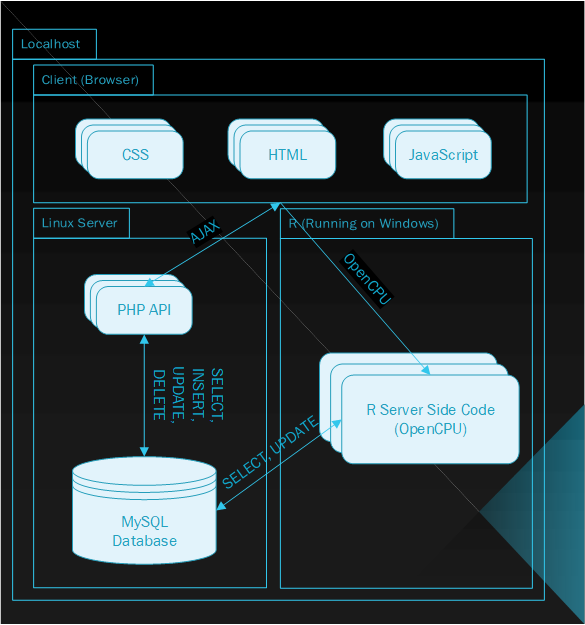
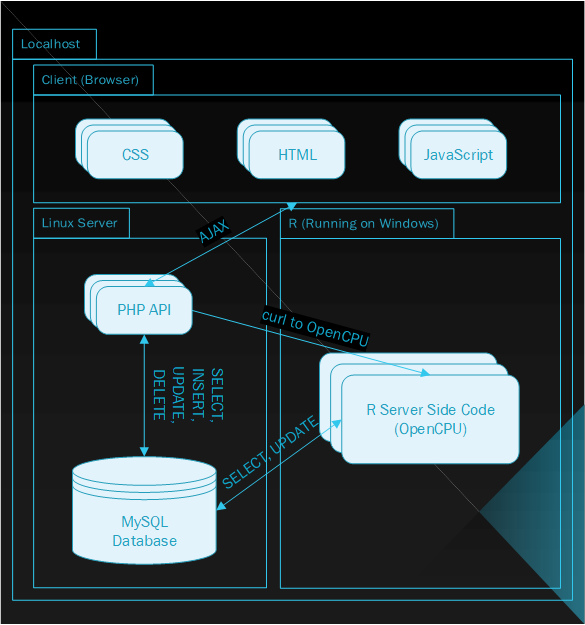
Corrected bugs with inventory update and consumption graphs. Added new version of docs images.

diff --git a/www/js/hub.js b/www/js/hub.js
@@ -42,7 +42,7 @@ hub.drawGraph = function(data, minDate, maxDate, line){
 		},
 		series: {
 			lines: {
-				show: true
+				show: line
 			},
 			points: {
 				show: true
@@ -207,12 +207,12 @@ $(document).ready(function(){
 		$(".inventory-name").html(hub.data[pos].name);
 		$("#inventory-unit").html(hub.data[pos].unit);
 		$("#inventory-modal").modal('show');
-		$("#inventory-update").data("pos", pos);
+		$("#inventory-update").val(pos);
 	});
 	$("#inventory-update").click(function(){
 		//inventory-qty
 		var val = $("#inventory-qty").val();
-		var pos = $(this).data("pos");
+		var pos = $(this).val();
 		if(val == ""){
 			swal("Error", "Please enter a quantity.", "error");
 		} else if(isNaN(val)){

diff --git a/www/hub.html b/www/hub.html
@@ -125,7 +125,7 @@
 				</div>
 		  </div>
 		  <div class="modal-footer">
-			<button type="button" class="btn btn-theme" id='inventory-update' data-pos="-1">Update</button>
+			<button type="button" class="btn btn-theme" id='inventory-update' value="-1">Update</button>
 			<button type="button" class="btn btn-theme" data-dismiss="modal">Cancel</button>
 		  </div>
 	  </form>

diff --git a/www/api/items.php b/www/api/items.php
@@ -68,7 +68,7 @@
 				$id = $_GET['item_id'];
 				$qty = $_GET['item_qty'];
 				if(isset($id)&&isset($qty)){
-					//$update = "UPDATE item SET inventory = {$qty} WHERE id = {$id}";
+					$update = "UPDATE item SET inventory = {$qty} WHERE id = {$id}";
 					if ($conn->query($update) === TRUE) {
 						//Change http response code 
 						http_response_code(200);
